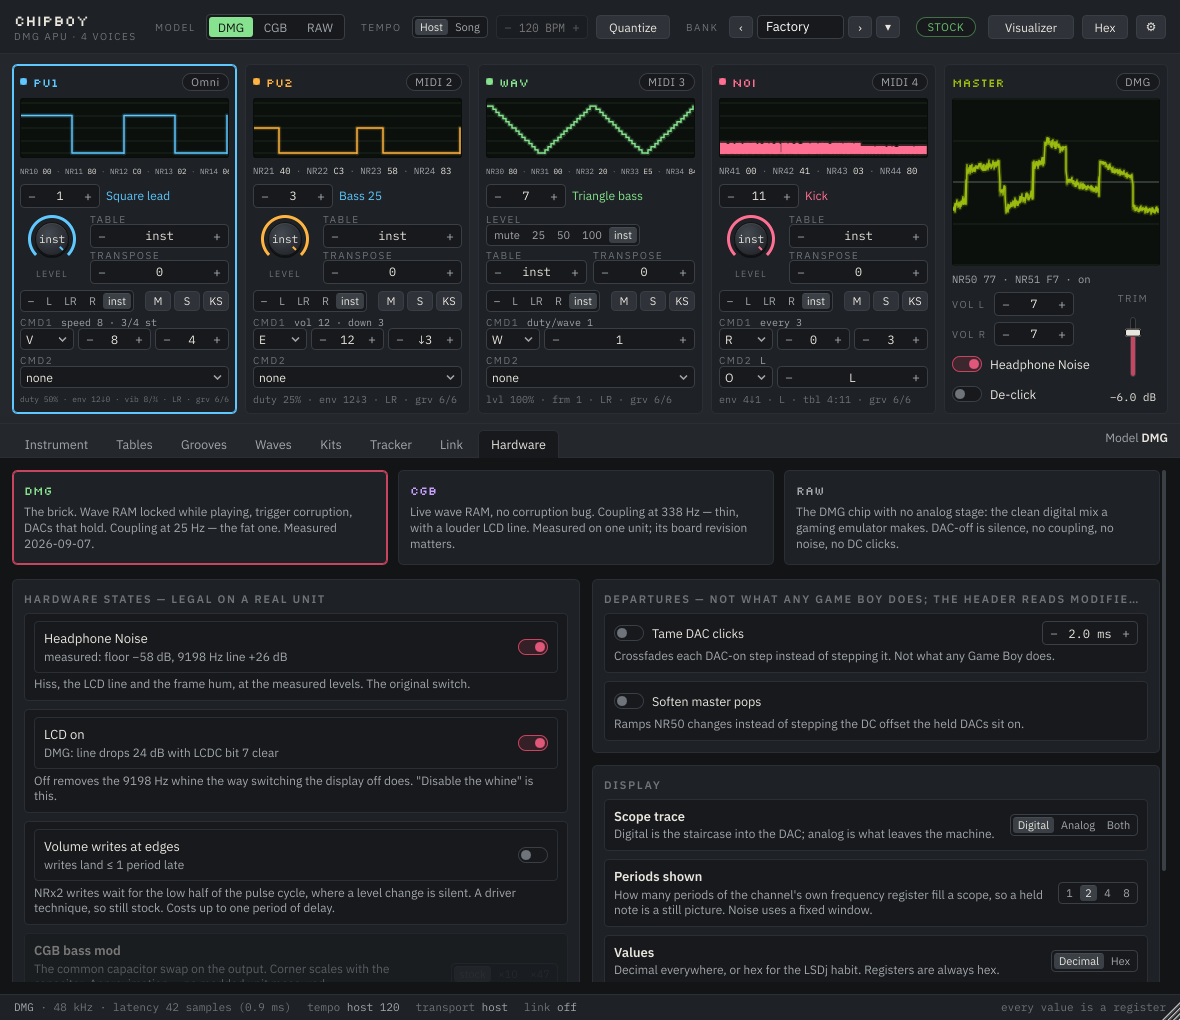
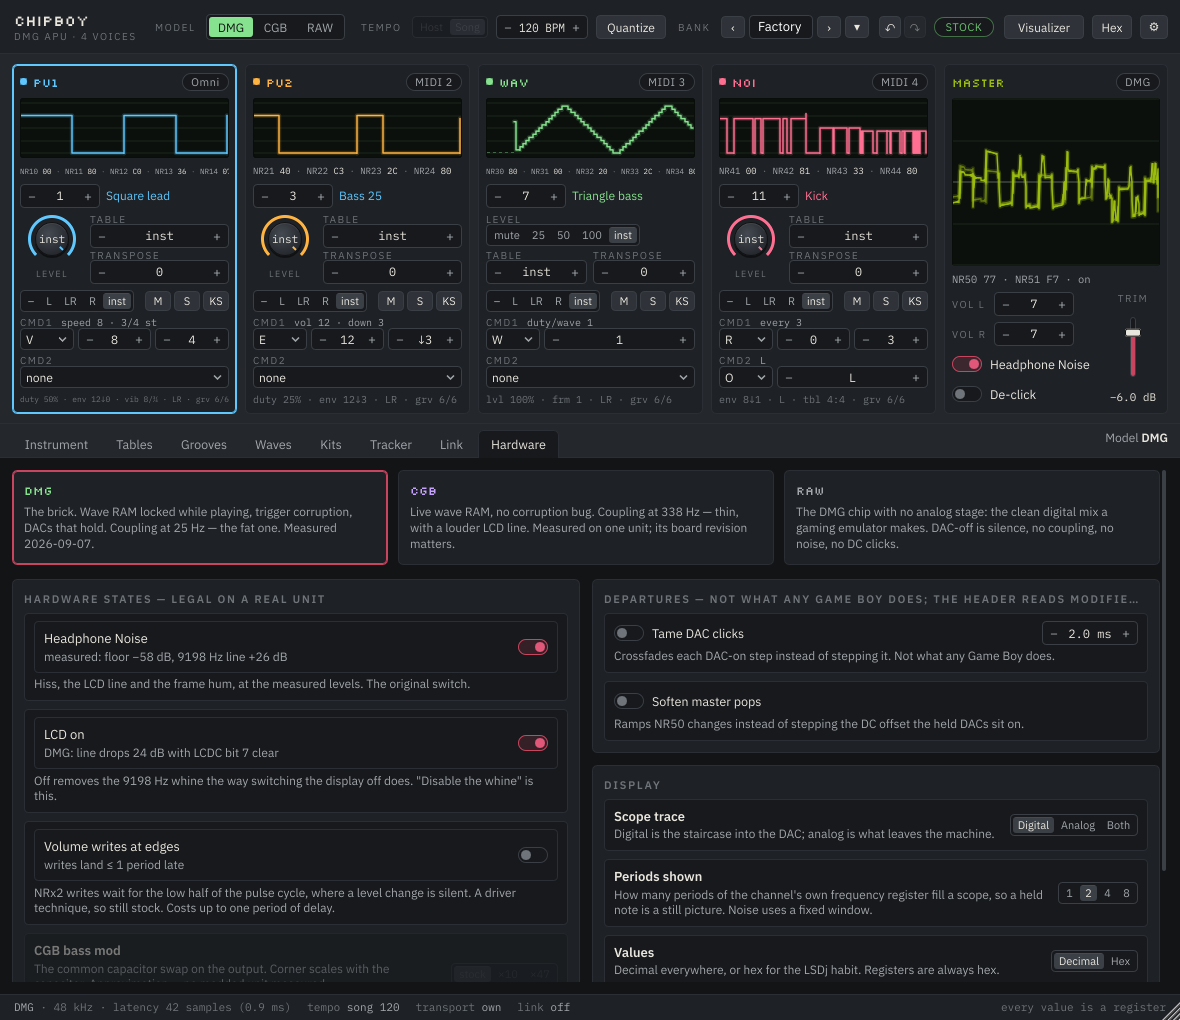
UI_DESIGN gains an editing-conventions section, and the screenshots show the arrows
Section 2.1 collects the three rules a control now keeps to -- every number
typeable with what is refused and what is clamped, a wheel that only scrolls,
and undo over every hand edit with its keys, its buttons and what is left out
-- plus the two-part command cell and the right-click slot lists. Sections 7
and 7.1 drop the wheel from the gestures they list and say how a command cell
reads. README's "Playing it" gains the same in a paragraph, and CHANGES
records the round with what was considered: a global parameter listener,
which cannot tell a host's automation from a hand on a knob, and making
mutateBank and mutateSong themselves undoable, which the timer and the link
would then land on.

The four main-window screenshots are taken again: the header carries the two
arrows, and the tracker lane draws its command cells in two parts.

Claude-Session: https://claude.ai/code/session_015RVPKMpKBZ57UV3Y3PWKkJ

diff --git a/CHANGES.md b/CHANGES.md
@@ -19,12 +19,95 @@ intended product rather than a progress report.
 | M4 — bank + driver | **done** 2026-09-07 — the bank with a factory set, the driver on its own tick, 11 driver tests. **2026-09-08**: the instrument carries the pitch (Pitch speed, vibrato shape/direction, Command rate, Table mode, Overlap); a note without an instrument only changes pitch (bare notes); four note-hang paths closed (all-notes-off, kill, event ordering, keyswitch-clear). Then: an instrument saves and loads on its own as a `.cbi` **preset** (`bank::collectPreset` / `bank::placePreset`), its tables, waves and kit carried along and renumbered into place |
 | M5 — Voice plugin + link | **done** 2026-09-07 — region files, claims, one-block timing, push/pull; `chipboy_linktest` passes 16 checks |
 | M6 — tracker, waves, frames, kits | **done** 2026-09-07 — tracker player on the host transport, record arm, kit import (resample + 4-bit dither), bank/song files. **2026-09-08**: grooves are sixteen tick counts, cells carry velocity, the Player flushes a channel with All notes off on stop/locate/source change, and the recorder follows §9.4; `chipboy_recordtest` (record/replay parity) and the tracker-shaped demo are done, next to the link test. Then: **steps per bar** is a number, 1–64, with a per-bar override (`Song::barSteps`) for any bar, tracked through a prefix table (`Song::barStartSteps`) so a locate lands on the right step; a cell's two commands fire **once**, at their step, instead of occupying a slot; per-channel **record arms** gate an armed channel's recording whatever its playback source; **song files** (`.cbsong`) and the plugin's **own transport** (`transportPlay`/`transportStop`/`setLoop`) round out the Standalone; `Demo/ChipBoy Demo.cbsong` is the recorded demo, checked byte for byte by `demo_song_matches` |
-| M7 — interface | **done** 2026-09-07 — the window from the mockup: header, mixer with period-locked scopes, seven tabs, status bar, visualizer window, Voice window. **2026-09-08**: the Phrases tab gained a groove editor and a VEL column, the Instrument tab gained the pitch fields, and the window was resized to fit a 1080p screen with tempo moved to the header; then the Phrases tab became the **Tracker** tab with the transport, the song files and the chain rotated beside the lane, a **Grooves** tab took the groove editor, and the Instrument tab gained preset files |
+| M7 — interface | **done** 2026-09-07 — the window from the mockup: header, mixer with period-locked scopes, seven tabs, status bar, visualizer window, Voice window. **2026-09-08**: the Phrases tab gained a groove editor and a VEL column, the Instrument tab gained the pitch fields, and the window was resized to fit a 1080p screen with tempo moved to the header; then the Phrases tab became the **Tracker** tab with the transport, the song files and the chain rotated beside the lane, a **Grooves** tab took the groove editor, and the Instrument tab gained preset files. Then a quality-of-life round: every number typeable, the wheel scrolling only, command cells split into letter and values with right-click slot lists, and undo / redo over every hand edit |
 | M8 — CGB / RAW / hardware options | **done** 2026-09-07 — CGB chip variant, RAW bypass, headphone noise, LCD line, bass mod, quiet-edge volume writes, de-click, soften master pops; 61 core tests |
 
 ---
 
 ## Spec revisions
+
+### 2026-09-08 — typed fields, no wheel edits, command cells, undo (interface)
+
+A quality-of-life round on both windows. Nothing in `Source/core` or
+`Source/plugin/shared` changed; the spec's ranges and the command table
+(`plugin::commandInfo`) are what the new validation checks against.
+[`docs/UI_DESIGN.md`](docs/UI_DESIGN.md) §2.1 is the new "Editing conventions"
+subsection these rules live in.
+
+**Changed:**
+
+- **Every number is typeable.** `ui::Stepper` opens an inline text box on a click (or
+  Enter) in its readout; `ui::Knob` and `ui::Fader` open one on a double click. Enter
+  commits, Escape cancels, focus loss commits. Digits, a leading minus where the range
+  allows and hex while *Hex* is on are taken; anything else is refused and the field
+  keeps what it had; a number outside the range is clamped to it. `Stepper::setTyped`
+  is on by default now — the Song tempo, the strips' slots, the master volumes, the
+  tracker's *Steps / bar* and the groove editor's slot all take typed values — and
+  `setEntryFormat` lets a field whose readout is not a plain number (the song start, in
+  tenths of a second) say how a typed value reads and parses. Segmented rows and
+  switches stay click-only: a choice is not a number.
+- **The wheel never edits.** The `mouseWheelMove` overrides are gone from `Knob`,
+  `Stepper`, `TableGrid`, `PhraseGrid` and `GrooveEditor`, so JUCE's default forwards
+  the event to whatever scrolls; `setScrollWheelEnabled(false)` covers the trim fader's
+  slider, the command slots' letter box and the Voice's four combo boxes. `ChainColumn`
+  keeps its wheel, which scrolls its bars rather than editing a cell. Considered:
+  keeping the wheel with a modifier. Rejected — a modifier is not discoverable and the
+  accident it prevents (scrolling a tab and retuning an instrument on the way past) is
+  silent.
+- **A command cell is two parts.** The letter is drawn in the accent colour against a
+  hairline, then its values; a click on the letter opens a palette of the letters that
+  channel can carry (`plugin::commandAppliesTo`), each with its name and argument
+  description, plus *none* and the letter's revert form. Typing a letter still sets it,
+  and now **keeps the values, clamped into the new letter's ranges** rather than
+  replacing them with its defaults — an empty cell still takes the defaults, so one
+  keystroke writes a command that does something. Typed arguments are validated against
+  `commandInfo`: a digit the letter cannot hold is refused and the cell shows what it
+  had (this tightened `typeDigit` for every grid column, not only commands). Command
+  arguments stay base 10 in hex display, as spec §9.6 fixes them.
+- **Right-click lists.** A right click on an **INS** cell lists the bank's used
+  instruments by slot and name, the ones the channel plays first and the rest marked
+  with their type; on a **TBL** cell, the bank's tables; on a chain cell, the phrases
+  the song uses with how many bars play each. The left click still selects for typing.
+  `PhraseGrid::setBank` is how the lane reads the names.
+- **Undo and redo for every hand edit** (`Source/plugin/ui/EditHistory.*`, new). A
+  `juce::UndoManager` per processor, capped with `setMaxNumberOfStoredUnits` at 64 MB
+  with a floor of eight transactions — a Song snapshot is ~300 KB and a Bank ~40 KB plus
+  its kit samples, so the cap is counted in bytes. Three kinds of action: a parameter
+  (id, old and new normalised values, applied with `setValueNotifyingHost` so the host
+  sees an undo as it saw the gesture), a bank snapshot and a song snapshot — the
+  before/after pointers the copy-on-write path already makes, so an edit costs no extra
+  copy and only an undo does. `ChipBoyProcessor::editBank` / `editSong` are the undoable
+  entry points; `mutateBank` / `mutateSong` stay as the plain path the timer and the
+  link use. The controls find the history by walking up to their window
+  (`ui::EditHistoryHost` on both editors), so two instances never share one.
+  Surface: **↶ ↷** in the header right of the bank, Ctrl+Z / Ctrl+Shift+Z / Ctrl+Y
+  (never while a text box has the keys), tooltips naming the action ("Undo: PU1 Level
+  inst → 11") and the status line saying what was undone. One gesture is one undo: a
+  knob drag opens a transaction on `mouseDown` and the actions coalesce; a run of edits
+  under the same name — the digits of one typed cell — joins the transaction still open.
+  **Not** on the history, and never opening a transaction: host automation, a state
+  restore (`setStateInformation` clears it), the Voice's edits, which are the Voice's
+  own history, and anything the audio thread does.
+- **The header keeps its height.** The two arrows cost 47 px, found by trimming the
+  right cluster and by fixing the visualizer button's width — it said "Visualizer
+  (open)" and grew by 32 px, which shoved the bank along beside it and could overlap the
+  badge. It says the same thing in its colour now.
+- `juce::ButtonParameterAttachment`, `juce::SliderParameterAttachment` and
+  `juce::ComboBoxParameterAttachment` write straight to the parameter and cannot be
+  undone, so the four places that used them (Quantize, Hex, Keyswitches, the trim, the
+  Voice's velocity and instrument boxes) now use a `ParameterAttachment` with the click
+  routed through the history. `plugin::ToggleParam` is the shared piece.
+
+**Considered and rejected:** hooking undo to a global parameter listener instead of the
+UI write path — it cannot tell a host's automation from a hand on a knob, which is the
+one distinction that matters here. And making `mutateBank` / `mutateSong` themselves
+undoable — the timer and the link call them, and a Voice pushing an instrument is not
+the musician's edit.
+
+**Known limit:** a command with two three-digit arguments (`Z 255,255`) is wider than
+the 53 px the lane can give a command column and is clipped; every other letter fits.
+
+---
 
 ### 2026-09-08 — the Tracker tab, the Grooves tab and presets (interface)
 

diff --git a/docs/UI_DESIGN.md b/docs/UI_DESIGN.md
@@ -89,6 +89,57 @@ reads "1/8", not "mute"; **Headphone Noise**; the **output trim**, the one conti
 control in the product, drawn as a fader with a dB readout so nobody mistakes it for
 part of the chip.
 
+### 2.1 Editing conventions
+
+Every control in both windows obeys the same three rules, so nothing has to be learned
+twice.
+
+**Every number is typeable.** A stepper's readout is a text field: click it (or press
+Enter on it) and type. A knob or the trim fader opens the same small box on a double
+click. **Enter** commits, **Escape** cancels, and moving the focus away commits, as a
+name field does. What is accepted is digits, a leading minus where the range goes below
+zero, and hex digits while *Hex* is on — anything else is **refused**, and the field
+keeps what it had rather than guessing. A number inside the range is taken as typed; one
+outside it is clamped to the range, because the range is the hardware's and there is
+nothing else to do with 300 in a 0–15 field. Steppers also take digits typed straight
+at them, the grids' convention, and a knob with Alt on the double click goes back to its
+default. Segmented rows and switches stay click-only: they are a choice, not a number.
+Command arguments are the exception to the base: they are base 10 by definition
+(spec §9.6) and stay decimal in hex display.
+
+**The wheel never edits.** It scrolls whatever is under it — a tab's pane, a bank list,
+the chain's bars — and nothing else. A wheel that changed values meant that scrolling
+past a knob silently retuned an instrument, and a trackpad made it worse; the gestures
+that remain are the drag, the arrows, the +/− buttons and typing. This holds for
+steppers, knobs, the fader, the combo boxes, every grid cell and both windows.
+
+**Undo and redo cover every hand edit.** ↶ and ↷ in the header, **Ctrl+Z**,
+**Ctrl+Shift+Z** and **Ctrl+Y** (Command on macOS) — except while a text box has the
+keys, where Ctrl+Z belongs to the text. The buttons' tooltips name what they would take
+back ("Undo: PU1 Instrument 3 → 5", "Undo: Tracker: PU2 bar 3 step 5") and the status
+line says what happened. What is on the history: parameters moved from the interface,
+bank edits, song edits (cells, chain, grooves, arms, step counts), preset and song-file
+loads, the bank's name. What is not, and never opens a transaction: host automation, a
+state restore — loading a project clears the history — a Voice plugin's edits, which
+belong to the Voice's own history, and anything the audio thread does. One gesture is
+one undo: a knob drag, a stepper held down and the digits of one typed value each
+collapse into a single step.
+
+**Command cells are two parts.** The letter is chosen, the values are typed. Clicking
+the **letter** (the first glyph of the cell, drawn against its own hairline) opens a
+palette of the letters this channel can carry, each with its name and what its arguments
+mean, plus *none* and the letter's revert form; typing a letter key does the same. The
+**values** are typed as numbers and validated against that letter's ranges: a digit the
+letter cannot take is refused and the cell shows what it had. Changing the letter keeps
+the values, clamped into the new letter's ranges — an empty cell instead takes the
+letter's own defaults, so one keystroke still writes a command that does something.
+
+**Right-click lists.** A right click on an **INS** cell lists the bank's instruments by
+slot and name — only the slots in use, the ones this channel plays first and the rest
+marked with their type — and picks one into the cell. The same on a **TBL** cell for
+tables, and on a chain cell for the phrases the song uses, with how many bars play each.
+The left click still selects the cell for typing.
+
 ---
 
 ## 3. The scopes
@@ -310,8 +361,14 @@ step…) per phrase for swing. Cells fire at their step's tick; a cell's two com
 applied once, there, and the persistent letters then hold until the next plain note
 reloads the instrument (§12) — the lane and the automation lanes are one mechanism, not
 two. **Vel** is the note's velocity, 1–127, blank meaning the default 100; a recorded
-note keeps the velocity it arrived with, and every column takes the same gestures — the
-wheel, typed digits, + and −, Backspace to blank.
+note keeps the velocity it arrived with, and every column takes the same gestures —
+typed digits, + and −, Backspace to blank (§2.1: the wheel scrolls the pane, it never
+edits). A right click on **ins** or **tbl** lists the bank's slots by name.
+
+A command cell is drawn as the two things it is (§2.1): the **letter**, in the accent
+colour against a hairline, then its **values**. The letter is picked from the palette a
+click on it opens — filtered to the letters this channel can carry — or by typing it;
+the values are typed and refused when they fall outside what that letter takes.
 
 A command cell can also hold a letter's **revert form**, which is what the recorder
 writes when an automation slot goes back to *none*: it puts that letter back where the
@@ -430,9 +487,9 @@ it. The head carries the slot being browsed, the **total** against the bar's tic
 green when they match, warn when the groove over- or under-fills the bar — the **swing**
 the first pair makes (61 % for 8/5, 50 % for 6/6), and a **◀ ▶ nudge** that moves one
 tick between the entries of every pair, keeping each pair's total: 6 6 → 7 5 → 8 4, and
-back. A cell takes the lane's gestures and a value drag as well: the wheel, a vertical
-drag, + and −, two typed digits, Backspace to end the groove there; ← and → are the
-nudge. While the transport runs, the row the selected channel is really playing is
+back. A cell takes the lane's gestures and a value drag as well: a vertical drag, + and
+−, two typed digits, Backspace to end the groove there; ← and → are the nudge. The
+wheel scrolls the tab (§2.1). One drag, or one typed value, is one undo. While the transport runs, the row the selected channel is really playing is
 marked — but only while the editor is showing the groove that channel is running on.
 
 **Numbers.** The pane's 1156 × 512: the list 220 wide with a 14 px gap, the editor 520,

diff --git a/README.md b/README.md
@@ -195,7 +195,20 @@ file byte for byte (`ctest --test-dir build -C Release -R demo_song_matches`).
 11. The **Hardware** tab holds the model switch (DMG / CGB / RAW), the hardware states
     (headphone noise, LCD line, CGB bass mod, volume writes at edges) and the two
     departures (de-click, soften master pops), which light the MODIFIED badge.
-12. `Demo/ChipBoy Demo.rpp` opens in Reaper with the tune and its automation, and
+12. **Typing, the wheel and undo.** Every number is typeable: click a stepper's readout
+    or double-click a knob or the trim fader and a small box opens — Enter commits,
+    Escape cancels, and what is not a number in the field's base is refused rather than
+    guessed at, while a number outside the hardware's range is clamped to it. The mouse
+    wheel never changes a value anywhere; it scrolls the pane, the list or the chain
+    under it, so scrolling past a knob cannot retune an instrument. Everything done by
+    hand undoes: **↶ ↷** in the header, **Ctrl+Z**, **Ctrl+Shift+Z** and **Ctrl+Y**,
+    with the buttons naming what they would take back ("Undo: PU1 Instrument 3 → 5").
+    Host automation and loading a project are not edits and never go on the history; a
+    knob drag, a stepper held down and the digits of one typed value are each one step.
+    In a command cell the letter and the values are separate: click the letter for a
+    palette of the letters that channel can carry, then type the values; a right click
+    on an **ins** or **tbl** cell lists the bank's slots by name.
+13. `Demo/ChipBoy Demo.rpp` opens in Reaper with the tune and its automation, and
     `Demo/ChipBoy Demo (song tempo).rpp` runs the same track on the song's clock at 150
     BPM with a `T` that drops it to 100 for four bars; the tune alone is in
     `Demo/chipboy_demo.mid` for any other host, and the same tune recorded onto the
